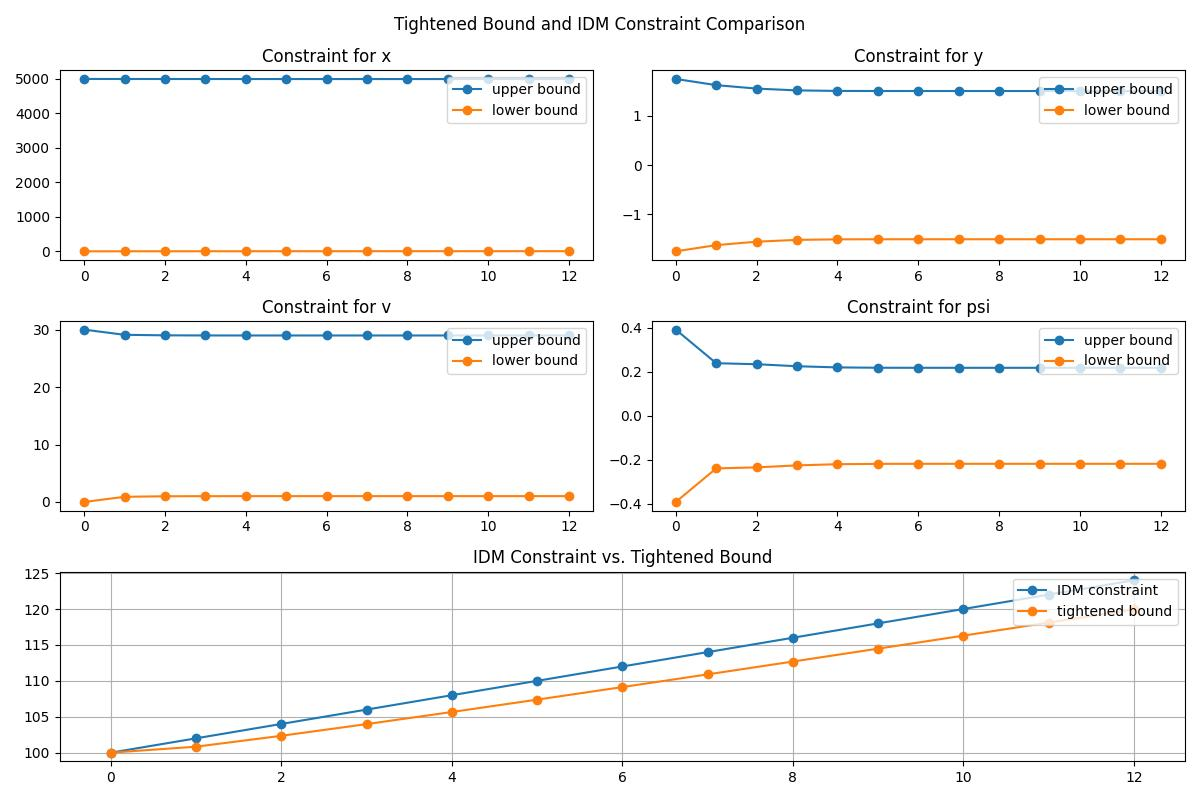
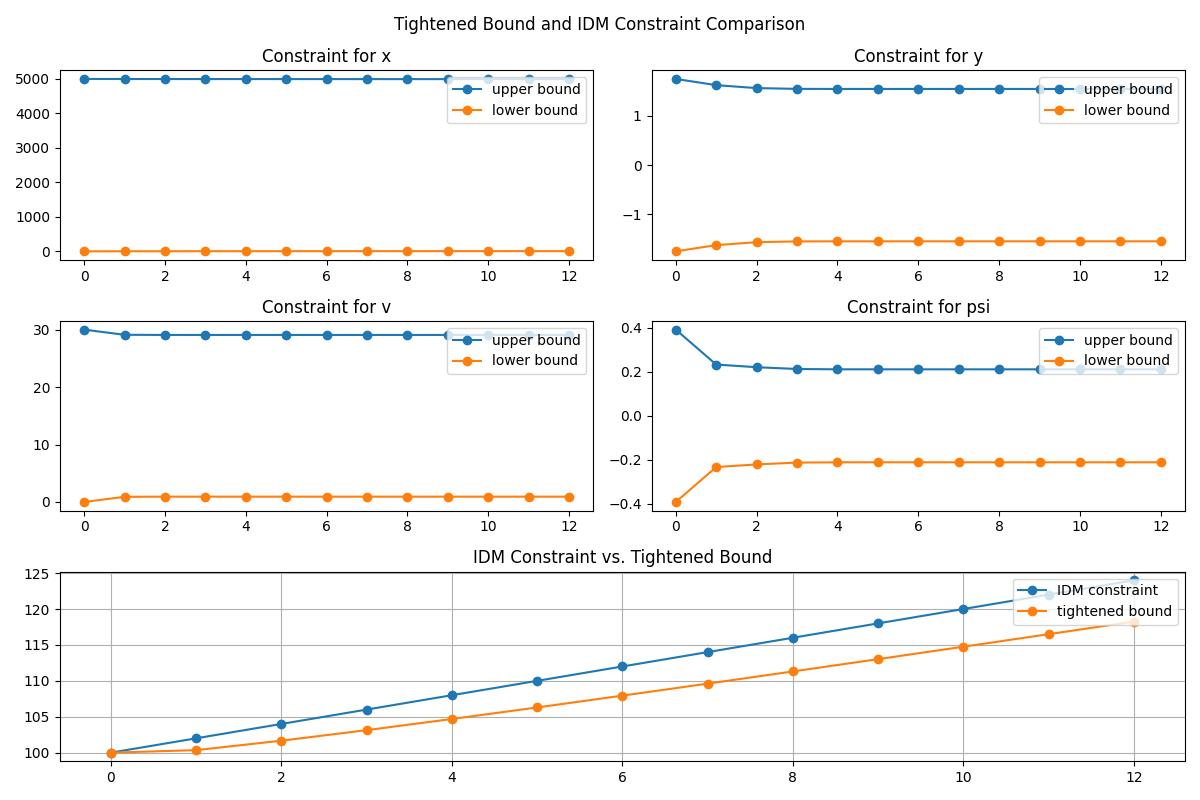
reupdate readme

diff --git a/Test_func/test_mpc_bound.py b/Test_func/test_mpc_bound.py
@@ -1,22 +1,22 @@
 import numpy as np
 from casadi import *
 import sys
-sys.path.append(r'C:\Users\86232\Desktop\Master_Thesis\Controller')
+sys.path.append(r'C:\Users\A490243\Desktop\Master_Thesis\Controller')
 from MPC_tighten_bound import MPC_tighten_bound
 
 #test the function
 
 
 #! A,B here is the linearized system, and the system is constant velocity model at x=0,y=0, v=10m/s, theta=0
-A=np.array([[1, 0, 0.1, -0],
+A=np.array([[1, 0, 0.2, -0],
             [0, 1, 0, 1],
             [0, 0, 1, 0],
             [0, 0, 0, 1]])
 # A = DM(A)
 B=np.array([[0.0, 0.0], 
             [0.0, 0.0], 
-            [0.0, 0.1], 
-            [0.25, 0.0]])
+            [0.0, 0.2], 
+            [0.5, 0.0]])
 # B=DM(B)
 #! P0 here is converged  kf covariance
 x0=np.array([[0],[0],[10],[0]])
@@ -37,7 +37,7 @@ R=np.diag([5,5])  # cost matrix  for input
 # R=DM(R)
 process_noise=np.eye(4)  # process noise
 # process_noise=DM(process_noise)
-process_noise[0,0]=0.5  # x bound is [0, 3]
+process_noise[0,0]=1  # x bound is [0, 3]
 process_noise[1,1]=0.01/6  # y bound is [0, 0.1]
 process_noise[2,2]=1.8/6  # v bound is [0, 1.8]
 process_noise[3,3]=0.05/6  # psi bound is [0, 0.05]
@@ -91,7 +91,7 @@ ax_big.set_title('IDM Constraint vs. Tightened Bound')
 ax_big.grid(True)
 
 plt.tight_layout()  
-plt.savefig('C:\\Users\\86232\\Desktop\\Master_Thesis\\Figure\\MPC_tighten_bound.jpg')
+plt.savefig('C:\\Users\\A490243\\Desktop\\Master_Thesis\\Figure\\MPC_tighten_bound.jpg')
 plt.show()
 
 
